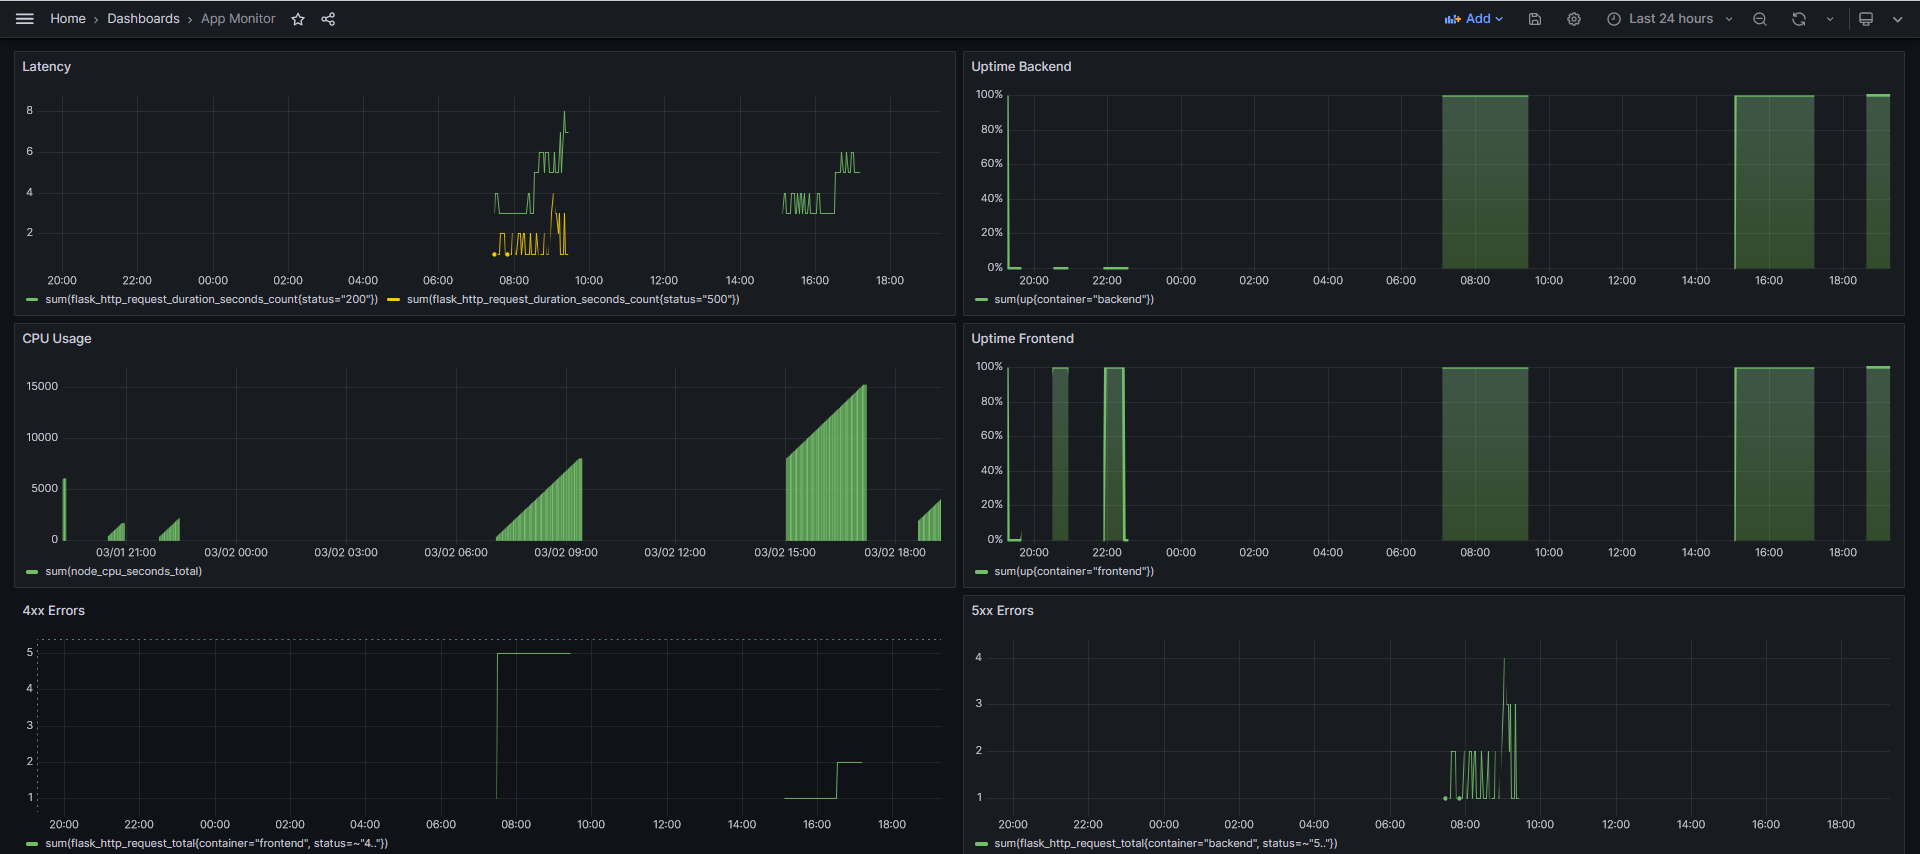
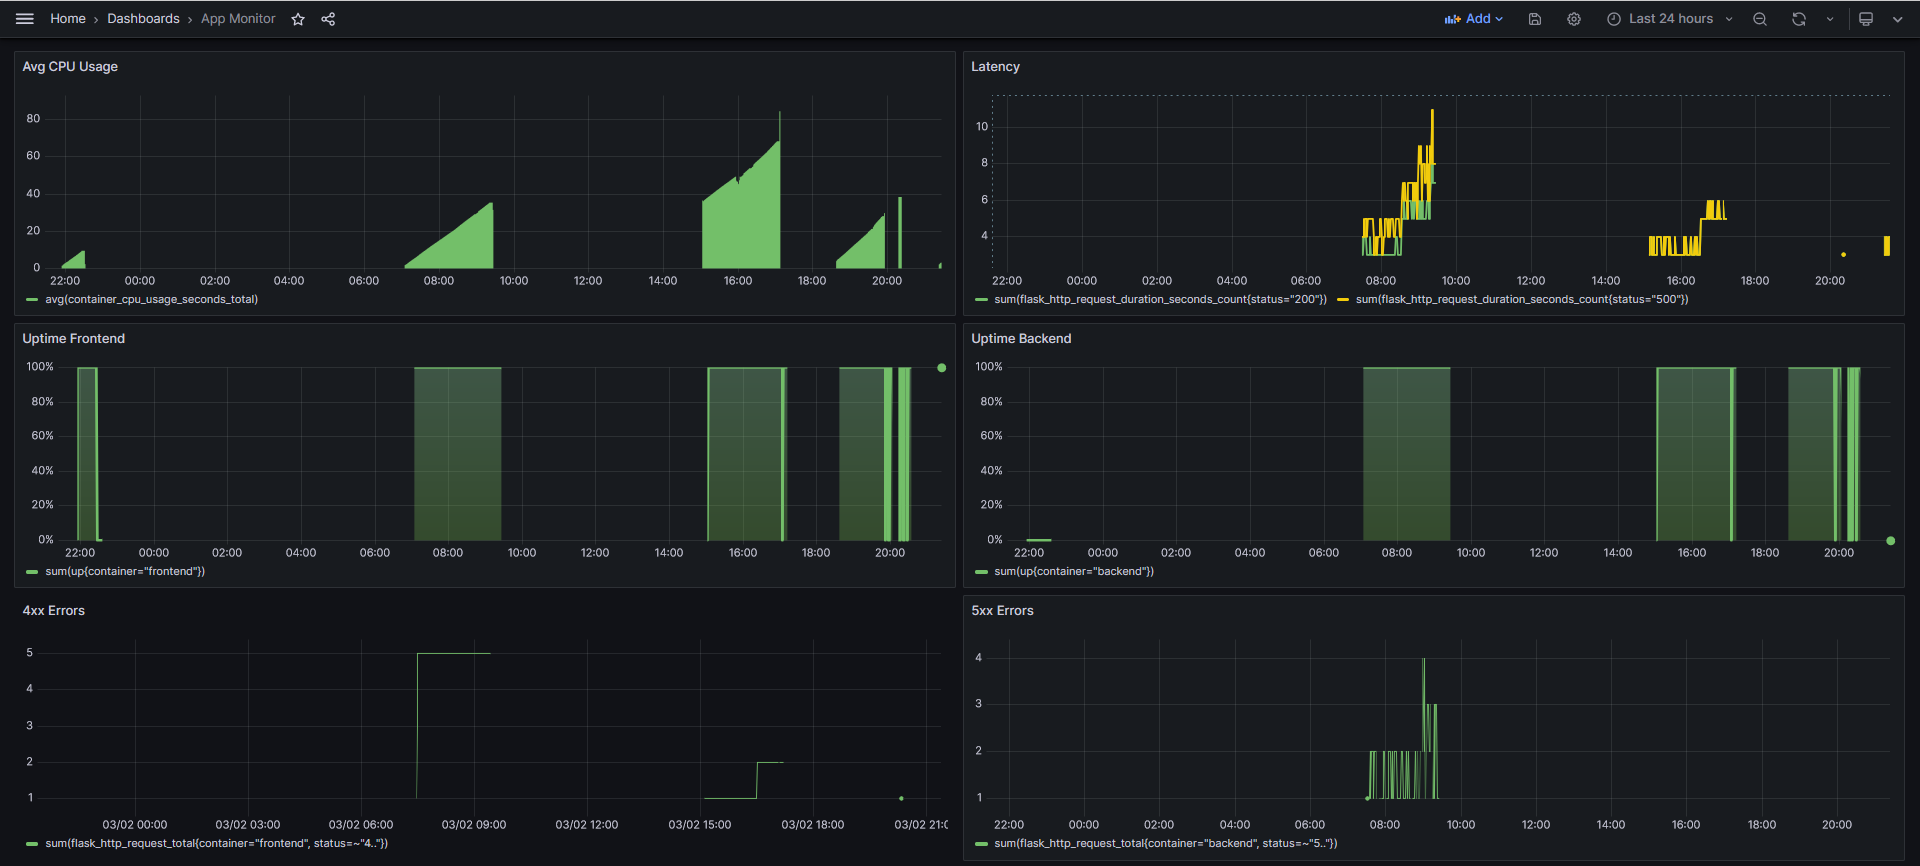
last dashboard

diff --git a/README.md b/README.md
@@ -130,33 +130,31 @@ Description:
 *TODO:* We want to create an SLO guaranteeing that our application has a 99.95% uptime per month. Name four SLIs that you would use to measure the success of this SLO.
 
 **Availability:**
-- more than 99.95% Uptime per month (SLO)
-- xxx (SLI)
+- more than 99.95% uptime per month (SLO)
+- the application was 98% of the time available last month (SLI)
 
 **Errors:**
 - less than 0.03% failed request per month  (SLO)
-- xxx (SLI)
+- the error rate was 0,04% last month (SLI)
 
 **Request Latency:**
-- average request time for successful HTTP requests is less than xxx per month (SLO)
-- xxx (SLI)
+- average request time for successful HTTP requests is less than 1.5 seconds per month (SLO)
+- the average request time for succesful HTTP request was 1.14 seconds last month (SLI)
 
 **CPU Usage:**
-- Monthly CPU Usage (SLO)
-- xxx (SLI)
+- average monthly CPU Usage is less than 50% (SLO)
+- the average CPU Usage was 45% last month (SLI)
 
 ## Building KPIs for our plan
 *TODO*: Now that we have our SLIs and SLOs, create a list of 2-3 KPIs to accurately measure these metrics as well as a description of why those KPIs were chosen. We will make a dashboard for this, but first write them down here.
 
-**Latency:** 
+**Avg CPU Usage:** Average CPU Usage in seconds
 
-**Uptime Backend/Uptime Backend**
+**Latency:** Sum of HTTP request time (in seconds) with error code 200 or 500
 
-**CPU Usage:**
+**Uptime Backend/Uptime Backend** Uptime  of container frontend and backend
 
-**Errors (4xx and 5xx):**
--request time for successful HTTP requestss
--request time for failed HTTP requests
+**Errors (4xx and 5xx):** Sum of HTTP requests with error code 200 (success) or 500 (failure)
 
 ## Final Dashboard
 *TODO*: Create a Dashboard containing graphs that capture all the metrics of your KPIs and adequately representing your SLIs and SLOs. Include a screenshot of the dashboard here, and write a text description of what graphs are represented in the dashboard.  
